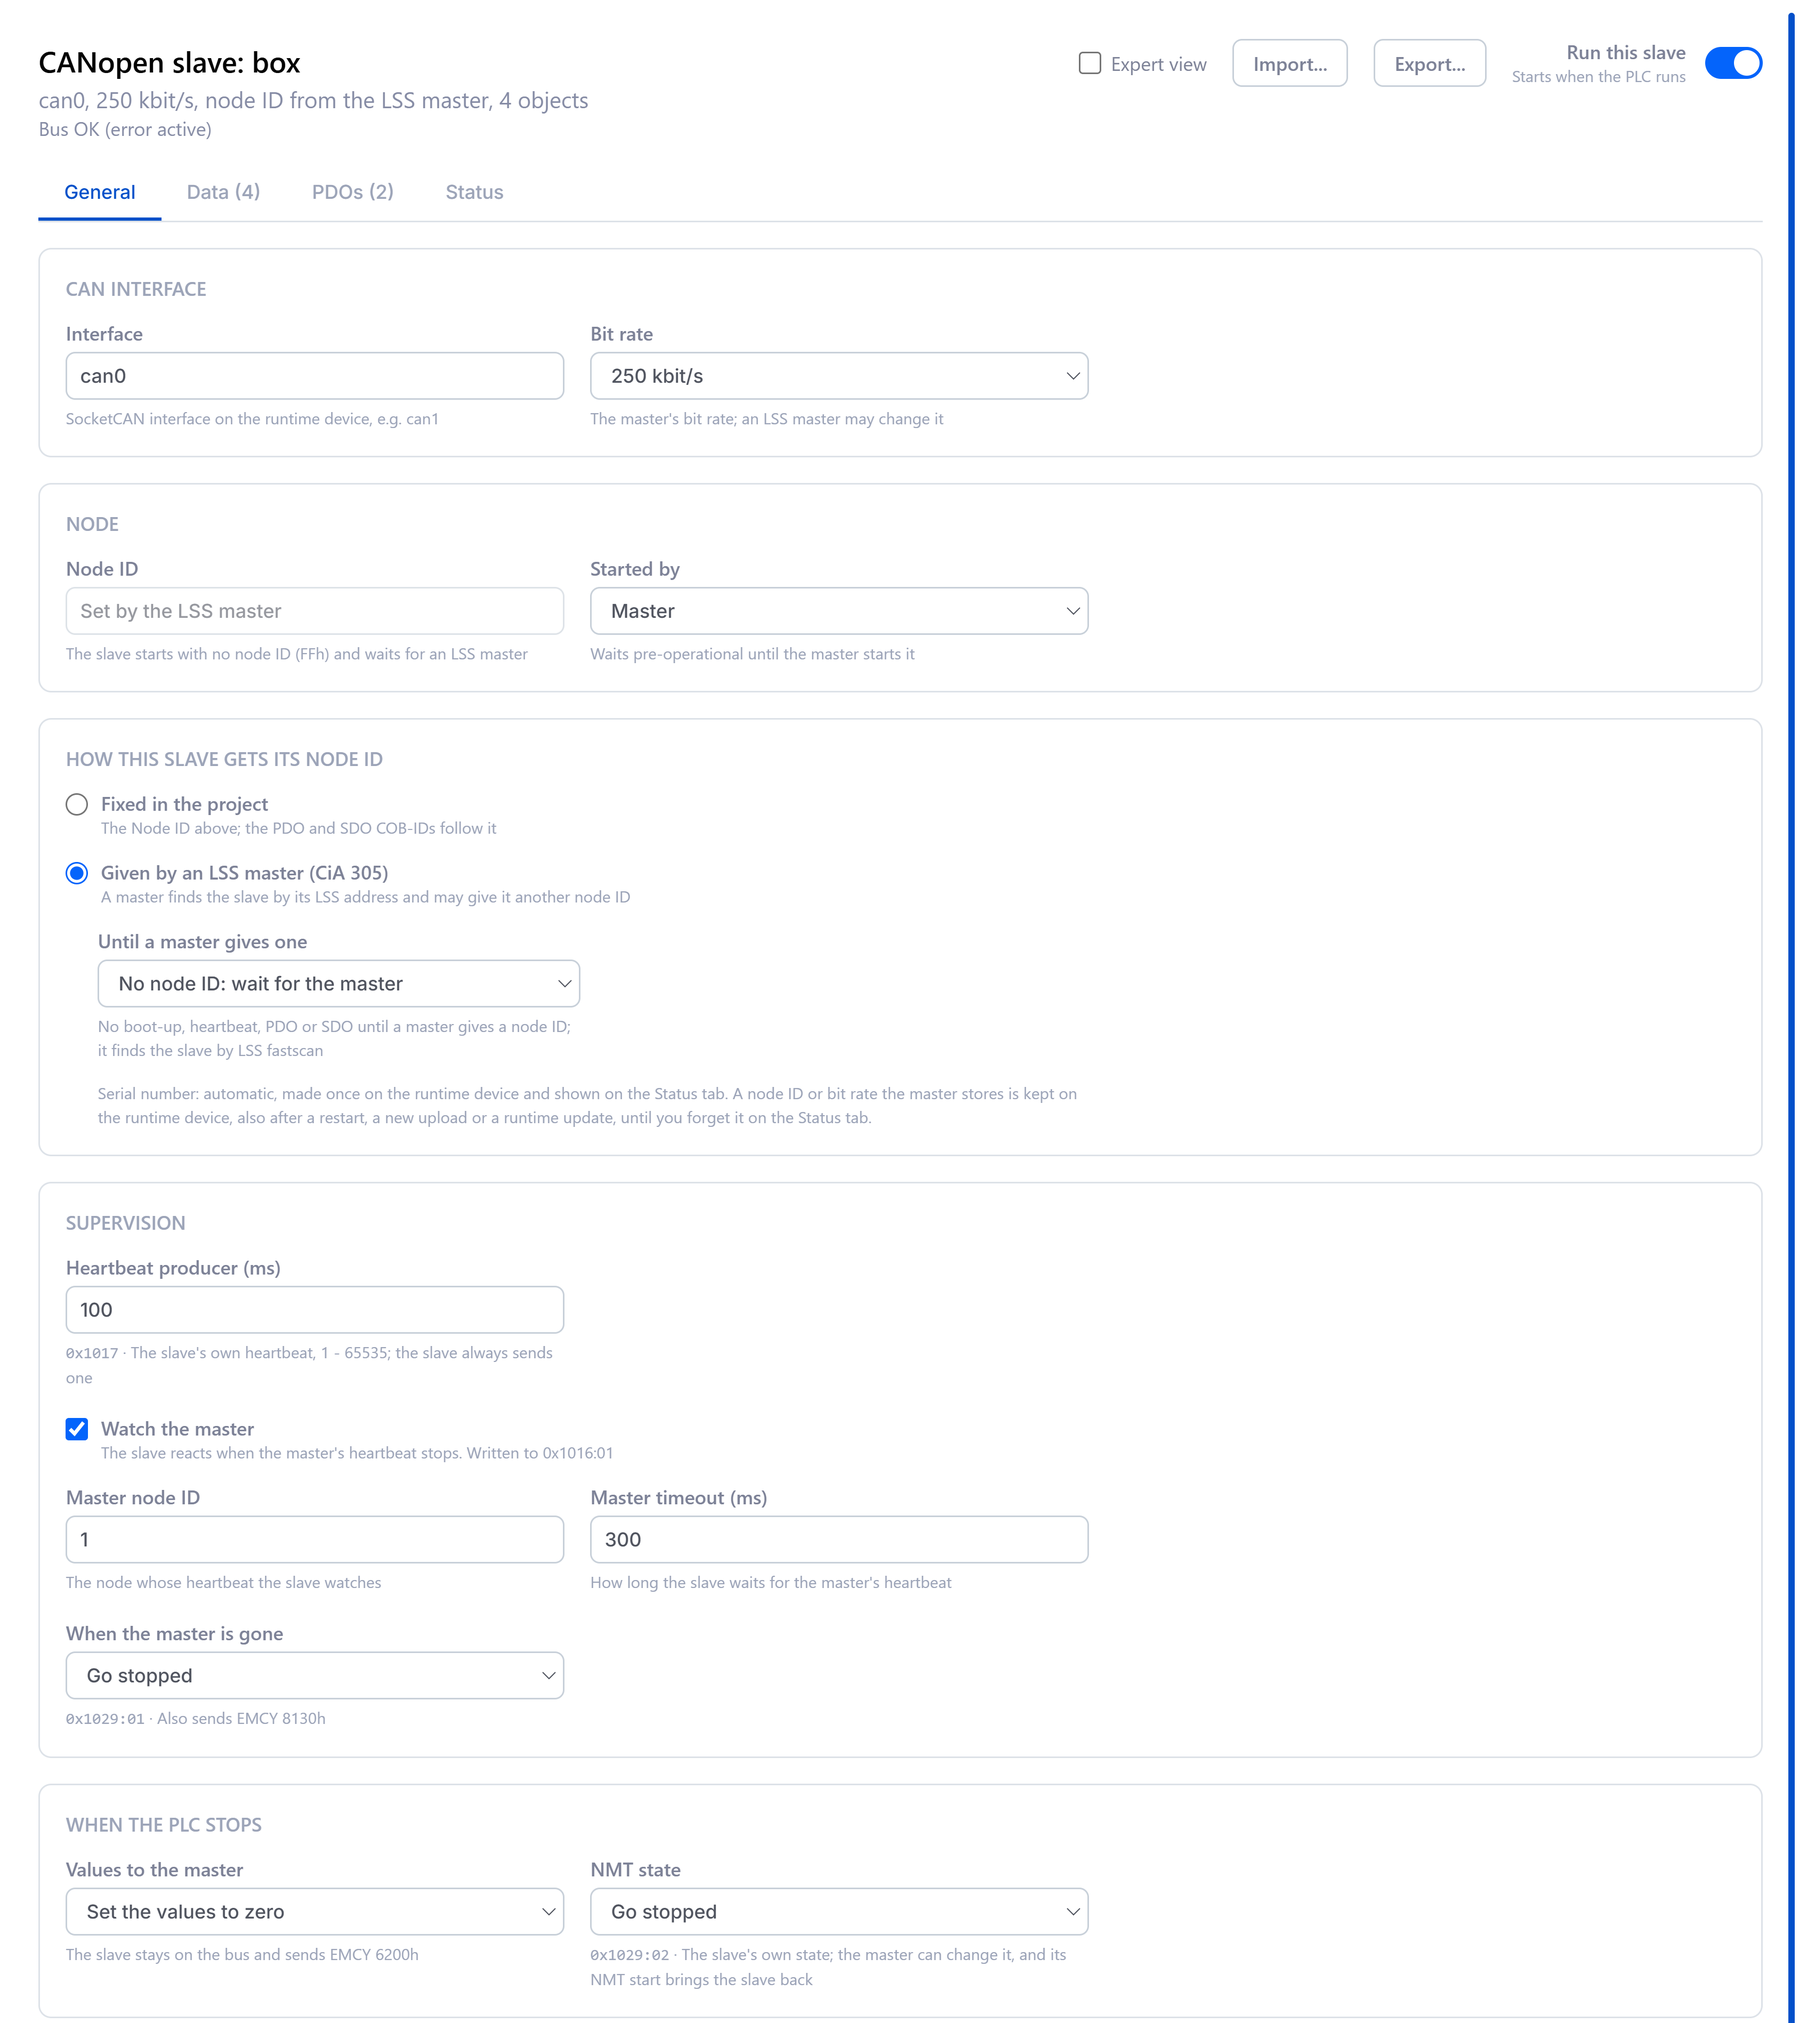
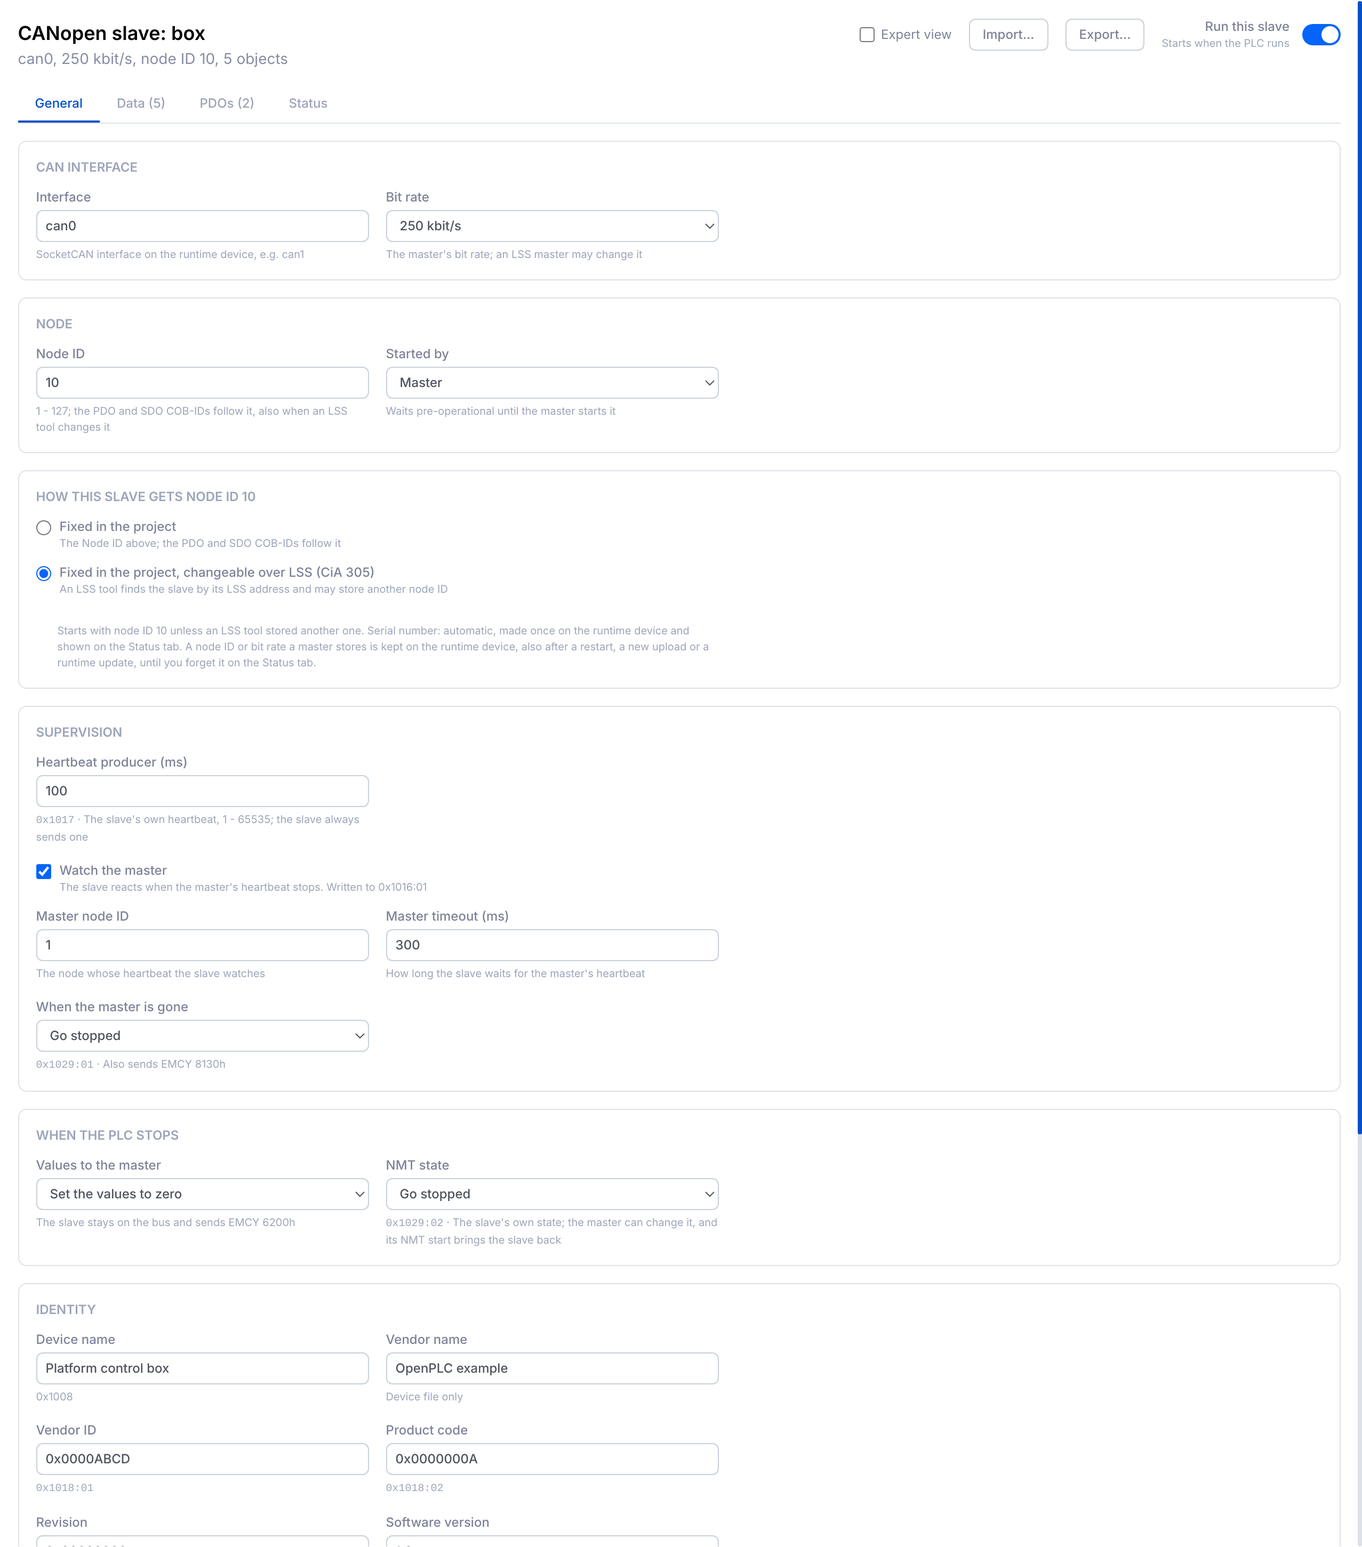
test(canopen): commissioning e2e node list check, example screenshots
Claude-Session: https://claude.ai/code/session_013zx93AarveTvfW8AUL26R8

diff --git a/src/frontend/components/_features/[workspace]/editor/device/canopen/__tests__/canopen-commissioning.test.tsx b/src/frontend/components/_features/[workspace]/editor/device/canopen/__tests__/canopen-commissioning.test.tsx
@@ -15,7 +15,9 @@ import { portsWithRuntime } from '@root/middleware/shared/utils/canopen/__tests_
 
 import { CanopenCommissioningWindow } from '../commissioning/window'
 
-const FEATURES = { canopen: { configVersions: [15], features: ['status', 'sdo', 'nmt', 'service', 'lss', 'commission'] } }
+const FEATURES = {
+  canopen: { configVersions: [15], features: ['status', 'sdo', 'nmt', 'service', 'lss', 'commission'] },
+}
 const IO = genericIoEds()
 
 const nvm = (index: number, subIndex: number, name: string): CanopenObject => ({
@@ -142,7 +144,10 @@ async function renderWindow(
     },
   }
   const config = configWith(...(options.noProjectFile ? [] : [node]))
-  const net = { ...config, network: { ...config.network, interface: 'can0', bitrate: options.networkBitrate ?? 125000 } }
+  const net = {
+    ...config,
+    network: { ...config.network, interface: 'can0', bitrate: options.networkBitrate ?? 125000 },
+  }
   store.setState({
     project: {
       ...state.project,

diff --git a/e2e/canopen-commissioning.spec.ts b/e2e/canopen-commissioning.spec.ts
@@ -257,7 +257,7 @@ test('commissioning: a new device gets node ID 10, saves its parameters and is a
     await page.keyboard.press('Escape')
     await expect(win).toHaveCount(0)
     await expect.poll(() => bus.requests.some((r) => r.op === 'service_close')).toBe(true)
-    await expect(page.getByText(/^Node 10: /).first()).toBeVisible({ timeout: 15000 })
+    await expect(page.getByText('10: Generic_I_O_module_2', { exact: true })).toBeVisible({ timeout: 15000 })
   } finally {
     await quitApp(app, page)
     runtime.close()

diff --git a/examples/canopen/scissor-lift/README.md b/examples/canopen/scissor-lift/README.md
@@ -153,6 +153,8 @@ LSS (CiA 305). The master then reports node 10 missing. To commission the spare:
 6. Close the window and start the chassis controller's PLC: the master boots node 10 and the box's
    lamps come back.
 
+![Device commissioning with the spare box at node 127](images/screenshots/editor-commissioning-spare.png)
+
 Until the master has started the spare box, its display says "Waiting for a node ID" and its lamps stay
 off. When the box loses the master later, for example because the chassis controller stops, it says "No
 contact with the master" and switches its lamps and buzzer off.
